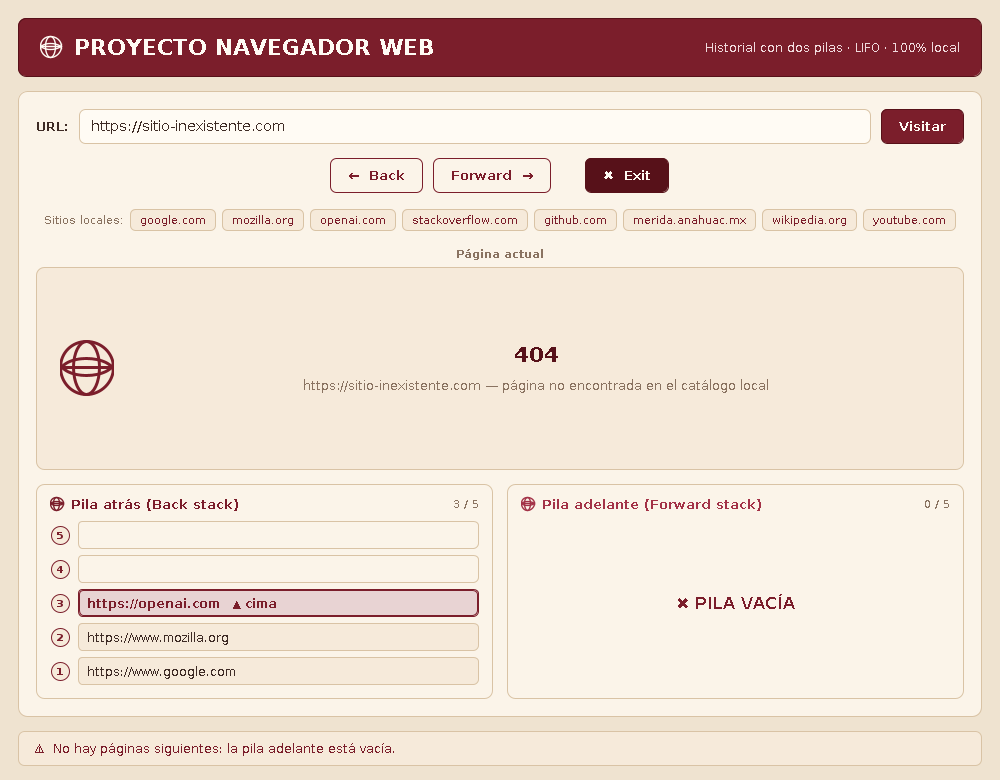
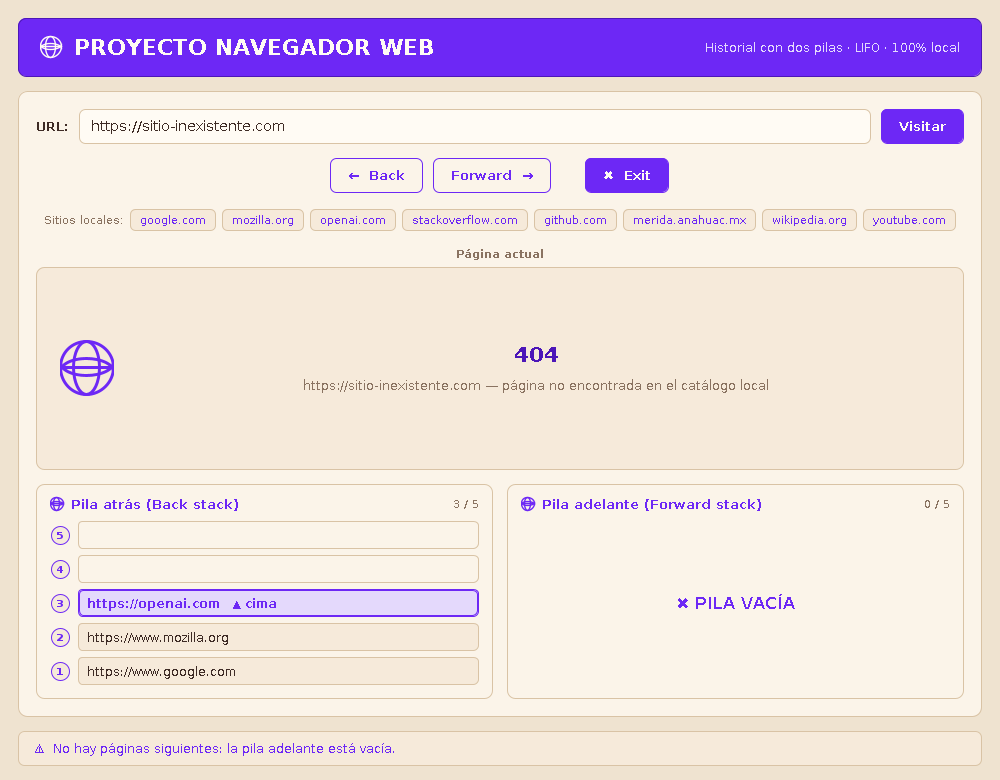
Cambia la paleta a un único acento violeta neón
Sustituye el guinda por un solo tono violeta (#6D28F5) aplicado de forma
uniforme en encabezado, botones, bordes, casillas de las pilas, avisos y
mensajes de estado. Se eliminan los colores secundarios (verde y ámbar de
estado, y el tono claro alterno de la pila adelante); solo quedan la variante
oscura del mismo tono para el hover de los botones y la clara para el relleno
de la cima. Capturas y README actualizados.

diff --git a/src/navegador/ui/VentanaNavegador.java b/src/navegador/ui/VentanaNavegador.java
@@ -30,10 +30,10 @@ public class VentanaNavegador extends JFrame {
     private final JTextField campoUrl = new JTextField();
     private final PanelPaginaActual panelPaginaActual = new PanelPaginaActual();
     private final PanelPila panelAtras =
-            new PanelPila("Pila atrás (Back stack)", Pila.CAPACIDAD_POR_DEFECTO, Paleta.GUINDA);
+            new PanelPila("Pila atrás (Back stack)", Pila.CAPACIDAD_POR_DEFECTO, Paleta.ACENTO);
     private final PanelPila panelAdelante =
             new PanelPila("Pila adelante (Forward stack)", Pila.CAPACIDAD_POR_DEFECTO,
-                    Paleta.GUINDA_CLARO);
+                    Paleta.ACENTO);
     private final JLabel barraEstado = new JLabel();
 
     public VentanaNavegador() {
@@ -65,7 +65,7 @@ public class VentanaNavegador extends JFrame {
     // ------------------------------------------------------------------ UI
 
     private JComponent construirEncabezado() {
-        PanelRedondeado barra = new PanelRedondeado(16, Paleta.GUINDA, Paleta.GUINDA_OSCURO);
+        PanelRedondeado barra = new PanelRedondeado(16, Paleta.ACENTO, Paleta.ACENTO_PROFUNDO);
         barra.setLayout(new BorderLayout(10, 0));
         barra.setBorder(BorderFactory.createEmptyBorder(16, 22, 16, 22));
 
@@ -77,7 +77,7 @@ public class VentanaNavegador extends JFrame {
 
         JLabel subtitulo = new JLabel("Historial con dos pilas · LIFO · 100% local");
         subtitulo.setFont(Paleta.fuente(Font.PLAIN, 12));
-        subtitulo.setForeground(new java.awt.Color(0xF0D9DC));
+        subtitulo.setForeground(Paleta.ACENTO_TENUE);
         subtitulo.setHorizontalAlignment(SwingConstants.RIGHT);
 
         barra.add(titulo, BorderLayout.WEST);
@@ -129,7 +129,7 @@ public class VentanaNavegador extends JFrame {
 
         campoUrl.setFont(Paleta.fuente(Font.PLAIN, 14));
         campoUrl.setForeground(Paleta.TEXTO);
-        campoUrl.setCaretColor(Paleta.GUINDA);
+        campoUrl.setCaretColor(Paleta.ACENTO);
         campoUrl.setOpaque(false);
         campoUrl.setBorder(BorderFactory.createEmptyBorder());
         campoUrl.setText("https://www.google.com");
@@ -179,8 +179,8 @@ public class VentanaNavegador extends JFrame {
 
         for (String url : navegador.getCatalogo().urlsDisponibles()) {
             String nombre = url.replaceFirst("^https://(www\\.)?", "");
-            BotonPlano chip = new BotonPlano(nombre, Paleta.TARJETA_SUAVE, Paleta.GUINDA_SUAVE,
-                    Paleta.BORDE, Paleta.GUINDA, 10);
+            BotonPlano chip = new BotonPlano(nombre, Paleta.TARJETA_SUAVE, Paleta.ACENTO_TENUE,
+                    Paleta.BORDE, Paleta.ACENTO, 10);
             chip.setFont(Paleta.fuente(Font.PLAIN, 11));
             chip.setBorder(BorderFactory.createEmptyBorder(4, 10, 4, 10));
             chip.setToolTipText("Copiar " + url + " a la barra de direcciones");
@@ -254,16 +254,16 @@ public class VentanaNavegador extends JFrame {
 
         switch (resultado.getAviso()) {
             case PILA_ATRAS_LLENA:
-                panelAtras.mostrarAviso("PILA LLENA", false);
+                panelAtras.mostrarAviso("PILA LLENA");
                 break;
             case PILA_ADELANTE_LLENA:
-                panelAdelante.mostrarAviso("PILA LLENA", false);
+                panelAdelante.mostrarAviso("PILA LLENA");
                 break;
             case PILA_ATRAS_VACIA:
-                panelAtras.mostrarAviso("PILA VACÍA", true);
+                panelAtras.mostrarAviso("PILA VACÍA");
                 break;
             case PILA_ADELANTE_VACIA:
-                panelAdelante.mostrarAviso("PILA VACÍA", true);
+                panelAdelante.mostrarAviso("PILA VACÍA");
                 break;
             default:
                 break;
@@ -284,15 +284,15 @@ public class VentanaNavegador extends JFrame {
         switch (resultado.getTipo()) {
             case ERROR:
                 simbolo = "⚠  ";
-                barraEstado.setForeground(Paleta.GUINDA);
+                barraEstado.setForeground(Paleta.ACENTO);
                 break;
             case AVISO:
                 simbolo = "⚑  ";
-                barraEstado.setForeground(Paleta.ALERTA);
+                barraEstado.setForeground(Paleta.ACENTO);
                 break;
             default:
                 simbolo = "✓  ";
-                barraEstado.setForeground(Paleta.OK);
+                barraEstado.setForeground(Paleta.ACENTO);
                 break;
         }
         barraEstado.setText(simbolo + resultado.getMensaje());

diff --git a/src/navegador/ui/Paleta.java b/src/navegador/ui/Paleta.java
@@ -7,29 +7,30 @@ import java.util.Arrays;
 import java.util.HashSet;
 import java.util.Set;
 
-/** Colores y tipografías del tema beige con acentos vino / guinda. */
+/**
+ * Tema del navegador: base beige y un único color de acento (violeta neón).
+ *
+ * <p>La paleta es intencionalmente lineal: todo lo que resalta usa el mismo
+ * tono {@link #ACENTO}. {@link #ACENTO_PROFUNDO} y {@link #ACENTO_TENUE} son
+ * el mismo color más oscuro o más claro, nunca un color distinto.</p>
+ */
 public final class Paleta {
 
-    // Fondos beige
+    // Base beige
     public static final Color FONDO          = new Color(0xEFE3D0);
     public static final Color TARJETA        = new Color(0xFBF4E9);
     public static final Color TARJETA_SUAVE  = new Color(0xF6EADA);
     public static final Color BORDE          = new Color(0xD9C3A5);
 
-    // Acentos vino / guinda
-    public static final Color GUINDA         = new Color(0x7B1E2B);
-    public static final Color GUINDA_OSCURO  = new Color(0x571119);
-    public static final Color GUINDA_CLARO   = new Color(0xA33247);
-    public static final Color GUINDA_SUAVE   = new Color(0xE8D3D3);
+    // Único acento: violeta neón (estilo cyberpunk)
+    public static final Color ACENTO          = new Color(0x6D28F5);
+    public static final Color ACENTO_PROFUNDO = new Color(0x4C16B8);
+    public static final Color ACENTO_TENUE    = new Color(0xE4D9FC);
 
     // Texto
     public static final Color TEXTO          = new Color(0x3E2B25);
     public static final Color TEXTO_SUAVE    = new Color(0x8A7361);
     public static final Color BLANCO_CALIDO  = new Color(0xFFFBF4);
-
-    // Estados
-    public static final Color OK             = new Color(0x4F6D3A);
-    public static final Color ALERTA         = new Color(0xB4761B);
 
     private static final String FAMILIA = elegirFamilia();
 

diff --git a/src/navegador/ui/BotonPlano.java b/src/navegador/ui/BotonPlano.java
@@ -51,22 +51,21 @@ public class BotonPlano extends JButton {
         });
     }
 
-    /** Botón principal: relleno guinda con texto claro. */
+    /** Botón principal: relleno del color de acento con texto claro. */
     public static BotonPlano solido(String texto) {
-        return new BotonPlano(texto, Paleta.GUINDA, Paleta.GUINDA_CLARO,
-                Paleta.GUINDA_OSCURO, Paleta.BLANCO_CALIDO, 12);
+        return new BotonPlano(texto, Paleta.ACENTO, Paleta.ACENTO_PROFUNDO,
+                Paleta.ACENTO, Paleta.BLANCO_CALIDO, 12);
     }
 
-    /** Botón secundario: beige con contorno guinda. */
+    /** Botón secundario: beige con contorno del color de acento. */
     public static BotonPlano contorno(String texto) {
-        return new BotonPlano(texto, Paleta.TARJETA, Paleta.GUINDA_SUAVE,
-                Paleta.GUINDA, Paleta.GUINDA, 12);
+        return new BotonPlano(texto, Paleta.TARJETA, Paleta.ACENTO_TENUE,
+                Paleta.ACENTO, Paleta.ACENTO, 12);
     }
 
-    /** Botón de salida: guinda oscuro. */
+    /** Botón de salida: mismo acento que el botón principal. */
     public static BotonPlano salida(String texto) {
-        return new BotonPlano(texto, Paleta.GUINDA_OSCURO, Paleta.GUINDA,
-                Paleta.GUINDA_OSCURO, Paleta.BLANCO_CALIDO, 12);
+        return solido(texto);
     }
 
     @Override

diff --git a/src/navegador/ui/PanelPaginaActual.java b/src/navegador/ui/PanelPaginaActual.java
@@ -22,10 +22,10 @@ public class PanelPaginaActual extends PanelRedondeado {
         setLayout(new BorderLayout(18, 0));
         setBorder(BorderFactory.createEmptyBorder(22, 24, 22, 24));
 
-        icono.setIcon(new IconoGlobo(54, Paleta.GUINDA));
+        icono.setIcon(new IconoGlobo(54, Paleta.ACENTO));
 
         titulo.setFont(Paleta.fuente(Font.BOLD, 21));
-        titulo.setForeground(Paleta.GUINDA);
+        titulo.setForeground(Paleta.ACENTO);
         descripcion.setFont(Paleta.fuente(Font.PLAIN, 13));
         descripcion.setForeground(Paleta.TEXTO_SUAVE);
 
@@ -54,12 +54,12 @@ public class PanelPaginaActual extends PanelRedondeado {
         }
         if (!pagina.fueEncontrada()) {
             titulo.setText("404");
-            titulo.setForeground(Paleta.GUINDA_OSCURO);
+            titulo.setForeground(Paleta.ACENTO_PROFUNDO);
             descripcion.setText(pagina.getUrl() + " — página no encontrada en el catálogo local");
             return;
         }
         titulo.setText(pagina.getUrl());
-        titulo.setForeground(Paleta.GUINDA);
+        titulo.setForeground(Paleta.ACENTO);
         descripcion.setText(pagina.getDescripcion());
     }
 }

diff --git a/src/navegador/ui/PanelPila.java b/src/navegador/ui/PanelPila.java
@@ -102,9 +102,9 @@ public class PanelPila extends PanelRedondeado {
     }
 
     /** Muestra temporalmente el aviso "PILA LLENA" o "PILA VACÍA". */
-    public void mostrarAviso(String texto, boolean esError) {
+    public void mostrarAviso(String texto) {
         etiquetaAviso.setText("<html><div style='text-align:center;'>&#10006; " + texto + "</div></html>");
-        etiquetaAviso.setForeground(esError ? Paleta.GUINDA : Paleta.ALERTA);
+        etiquetaAviso.setForeground(Paleta.ACENTO);
         cartas.show(contenedor, TARJETA_AVISO);
         temporizadorAviso.restart();
     }
@@ -161,7 +161,7 @@ public class PanelPila extends PanelRedondeado {
             texto.setText(esCima ? url + "   ▲ cima" : url);
             texto.setForeground(esCima ? acento : Paleta.TEXTO);
             texto.setFont(Paleta.fuente(esCima ? Font.BOLD : Font.PLAIN, 12));
-            caja.setColorFondo(esCima ? Paleta.GUINDA_SUAVE : Paleta.TARJETA_SUAVE);
+            caja.setColorFondo(esCima ? Paleta.ACENTO_TENUE : Paleta.TARJETA_SUAVE);
             caja.setColorBorde(esCima ? acento : Paleta.BORDE);
             caja.setGrosorBorde(esCima ? 2 : 1);
         }

diff --git a/README.md b/README.md
@@ -77,6 +77,15 @@ Sitios disponibles en el catálogo local: `google.com`, `mozilla.org`, `openai.c
 `stackoverflow.com`, `github.com`, `merida.anahuac.mx`, `wikipedia.org`, `youtube.com`,
 `java.com`.
 
+## Tema visual
+
+La interfaz usa una base **beige** y un **único color de acento violeta neón**
+(`#6D28F5`), definido en `ui/Paleta.java`. Toda la aplicación —encabezado, botones,
+bordes, números de las casillas, avisos y mensajes de estado— usa ese mismo tono;
+`ACENTO_PROFUNDO` y `ACENTO_TENUE` son el mismo color más oscuro (solo para el
+*hover* de los botones) y más claro (relleno de la cima). Para cambiar todo el
+tema basta con modificar esas tres constantes.
+
 ## Estructura del proyecto
 
 ```
@@ -92,7 +101,7 @@ src/navegador/
 │   ├── VentanaNavegador.java      Ventana principal
 │   ├── PanelPaginaActual.java     Tarjeta de la página actual / 404
 │   ├── PanelPila.java             Dibujo de una pila y sus avisos
-│   ├── Paleta.java                Colores beige + vino/guinda y tipografías
+│   ├── Paleta.java                Color: base beige + un único acento violeta
 │   ├── PanelRedondeado.java       Panel con esquinas redondeadas
 │   ├── BotonPlano.java            Botón plano redondeado
 │   └── IconoGlobo.java            Icono de globo dibujado en código
